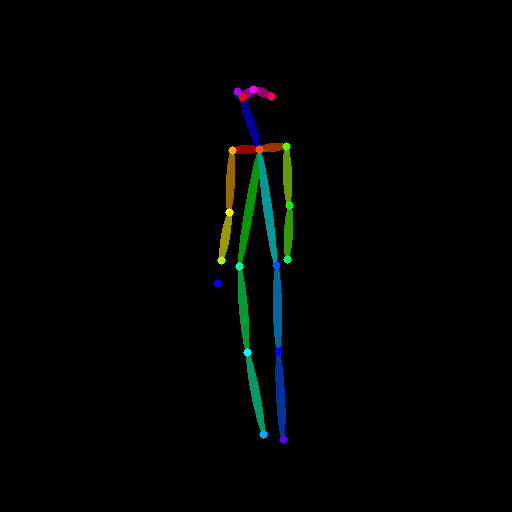
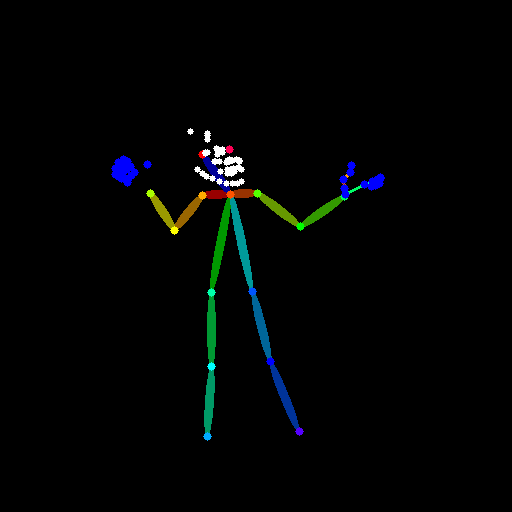
123

diff --git a/src/index.html b/src/index.html
@@ -189,13 +189,13 @@
                     btn.className = "option-btn";
                     btn.innerText = "👉 " + opt;
                     btn.disabled = true; 
-                    btn.onclick = () => executeTurn('/api/next_turn_text', { session_id: currentSessionId, user_choice: opt });
+                    btn.onclick = () => executeTurn('http://127.0.0.1:8088/api/next_turn_text', { session_id: currentSessionId, user_choice: opt });
                     optionsContainer.appendChild(btn);
                 });
 
                 showScreen('story-screen');
 
-                const imgRes = await fetch('/api/render_image', {
+                const imgRes = await fetch('http://127.0.0.1:8088/api/render_image', {
                     method: 'POST',
                     headers: { 'Content-Type': 'application/json' },
                     body: JSON.stringify({ session_id: currentSessionId })
@@ -226,14 +226,14 @@
             const customInput = document.getElementById('custom-choice');
             const customText = customInput.value.trim();
             if (!customText) { alert("请输入你想做的事情哦！"); return; }
-            executeTurn('/api/next_turn_text', { session_id: currentSessionId, user_choice: customText });
+            executeTurn('http://127.0.0.1:8088/api/next_turn_text', { session_id: currentSessionId, user_choice: customText });
             customInput.value = '';
         }
 
         function startGame() {
             const theme = document.getElementById('theme').value;
             const features = document.getElementById('features').value;
-            executeTurn('/api/init_story_text', { child_features: features, theme: theme });
+            executeTurn('http://127.0.0.1:8088/api/init_story_text', { child_features: features, theme: theme });
         }
 
         // 📖 新增：生成并展示完整绘本的逻辑
@@ -243,7 +243,7 @@
 
             try {
                 // 调用你写的后端查库接口
-                const res = await fetch(`/api/get_storybook/${currentSessionId}`);
+                const res = await fetch(`http://127.0.0.1:8088/api/get_storybook/${currentSessionId}`);
                 if (!res.ok) throw new Error("获取绘本档案失败");
                 const bookData = await res.json();
 

diff --git a/src/main.py b/src/main.py
@@ -12,7 +12,7 @@ from image_engine import generate_full_story_page
 from llm_engine import generate_script_turn
 from image_engine import generate_full_story_page
 # 👇 新增：引入我们的数据库模块
-from database import create_storybook, add_page_text, update_page_image, get_full_storybook
+# from database import create_storybook, add_page_text, update_page_image, get_full_storybook
 
 
 app = FastAPI(title="儿童绘本生成系统 API (异步加载版)")
@@ -49,8 +49,8 @@ async def init_story_text(req: InitRequest):
     STORY_SESSIONS[session_id]["current_action"] = turn_data['story_action']
     STORY_SESSIONS[session_id]["current_scene"] = turn_data['story_scene']
     # 👇 新增存入数据库
-    create_storybook(session_id, req.theme, req.child_features)
-    add_page_text(session_id, 0, "开始冒险", turn_data['narrator_text'], turn_data['actor_dialogue'])
+    # create_storybook(session_id, req.theme, req.child_features)
+    # add_page_text(session_id, 0, "开始冒险", turn_data['narrator_text'], turn_data['actor_dialogue'])
 
 
     print("✅ 文字生成完毕，已返回给前端！")
@@ -92,7 +92,7 @@ async def next_turn_text(req: NextTurnRequest):
     # 计算这是第几页 (因为 memory_list 包含全局设定，所以减去1)
     turn_index = len(session_data["memory_list"]) - 1
     # 👇 新增：把这一页的文字存入数据库
-    add_page_text(req.session_id, turn_index, req.user_choice, turn_data['narrator_text'], turn_data['actor_dialogue'])
+    # add_page_text(req.session_id, turn_index, req.user_choice, turn_data['narrator_text'], turn_data['actor_dialogue'])
     print("✅ 文字生成完毕，已返回给前端！")
     return {
         "narrator_text": turn_data['narrator_text'],
@@ -128,17 +128,19 @@ async def render_image(req: RenderRequest):
     os.rename(img_path, final_img_name)
     
     # 👇 新增：把画好的图片路径更新到数据库的对应页里
-    update_page_image(req.session_id, f"/{final_img_name}")
+    # update_page_image(req.session_id, f"/{final_img_name}")
     print("✅ 画面绘制完毕，已发送图片URL！")
     return {"image_url": f"/{final_img_name}"}
 
 # ================= 接口 4：获取完整绘本档案 (查库) =================
+"""
 @app.get("/api/get_storybook/{session_id}")
 async def fetch_storybook(session_id: str):
     book_data = get_full_storybook(session_id)
     if not book_data:
         raise HTTPException(status_code=404, detail="找不到这本绘本")
     return book_data
+    """
 
 
 
